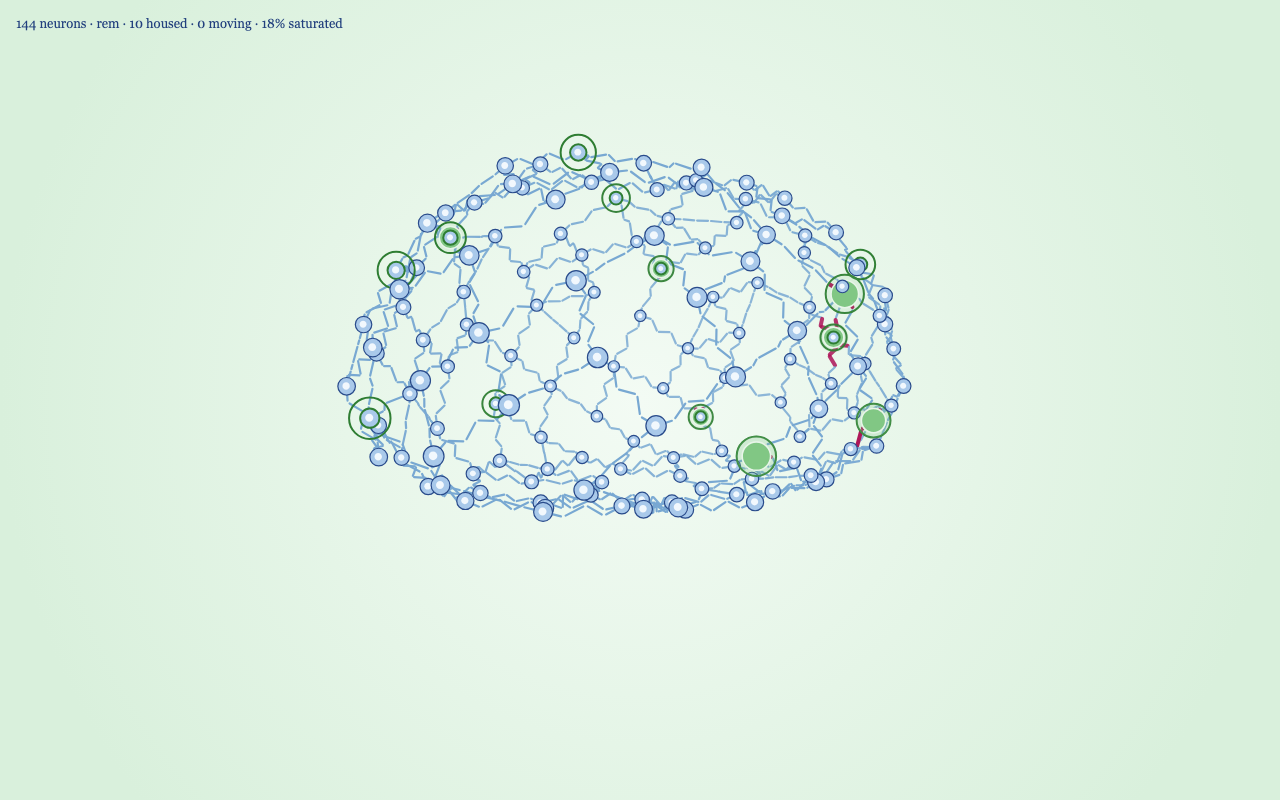
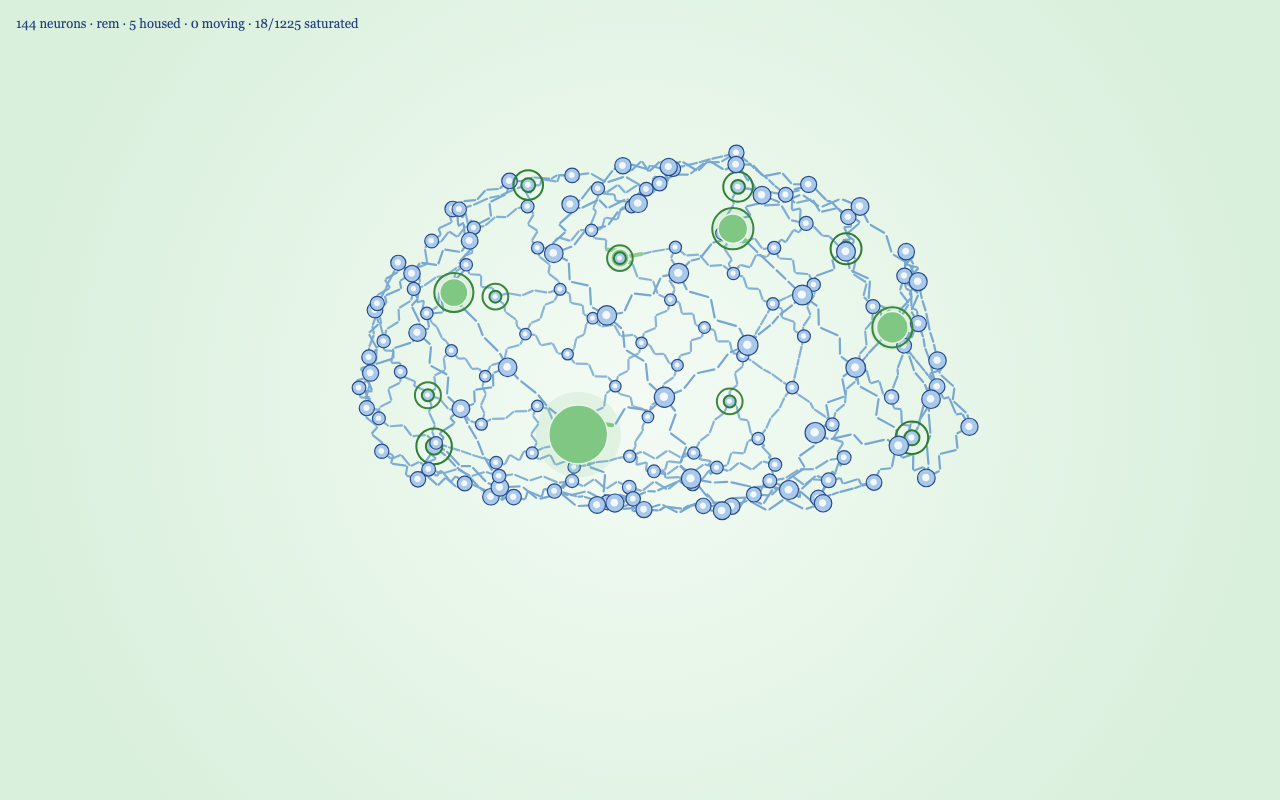
Show crystallized Schwann cells in light green.
They use the same green as a settled home, and a paler green during deep sleep.

Changed region(s): [[0.25, 0.1562, 0.7812, 0.6562], [0.0938, 0.0, 0.2812, 0.0312]]

diff --git a/brain-3d/js/config.js b/brain-3d/js/config.js
@@ -72,7 +72,7 @@
       somaEdge: '#294b8b',
       nucleus: '#f2f8fd',
       schwann: '#78a8d2',
-      saturatedSchwann: '#ad1457',
+      saturatedSchwann: '#81c784',
       anchorRing: '#2e7d32',
       external: '#e53935',
       externalCore: '#ffebee',
@@ -93,7 +93,7 @@
       nightSoma: '#d5e6f6',
       nightSomaEdge: '#9ec0e4',
       nightSchwann: '#c5d8ea',
-      nightSaturatedSchwann: '#d8a7e5',
+      nightSaturatedSchwann: '#c8e6c9',
       nightText: '#e7f0f8',
       text: '#22407e'
     },

diff --git a/brain-3d/Readme.md b/brain-3d/Readme.md
@@ -39,7 +39,7 @@ The night uses the 2D duration rule. Five unsettled homes start an 18-hour night
 - Awake is light blue. As temporary homes approach the threshold, the background warms toward light red.
 - Stage 1 is pale lavender. It lasts until the sensation already traveling has faded or found a home. No new sensation starts.
 - REM is very light green. It lasts at least half the calculated night, and longer if a temporary home is still walking to its domain center. Those homes travel at three times the daytime speed, then settle light green at their regular size.
-- As each thought reaches its permanent home, it blocks a seeded-random group of 1, 2, 3, or 5 adjoining Schwann cells, which turn magenta. Selection proceeds clockwise around that neuron, starting with the cells nearest the soma before moving outward.
+- As each thought reaches its permanent home, it blocks a seeded-random group of 1, 2, 3, or 5 adjoining Schwann cells, which turn light green. Selection proceeds clockwise around that neuron, starting with the cells nearest the soma before moving outward.
 - Deep sleep is dark gray and lasts exactly the calculated half, even when REM ran longer. The neurons brighten so they stay visible.
 - Saturation is the blocked Schwann cells divided by every Schwann cell. The brain starts at 6° per second and slows toward 0.6° per second as that percentage rises.
 
